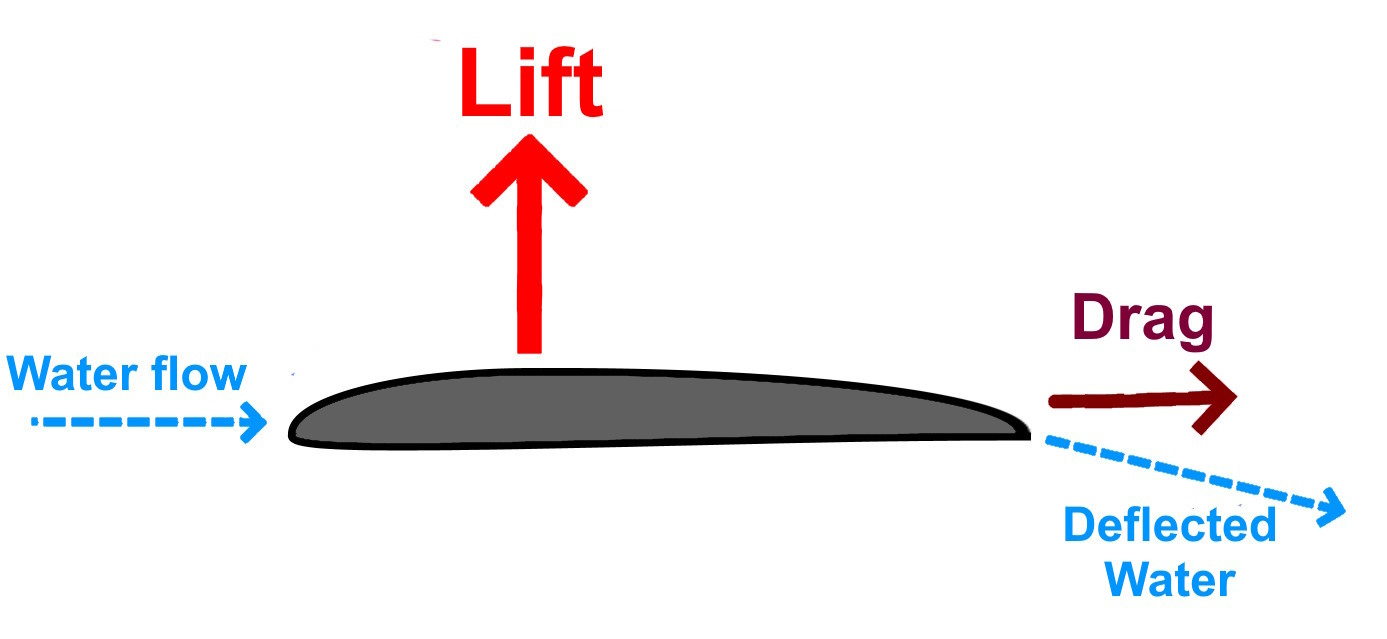
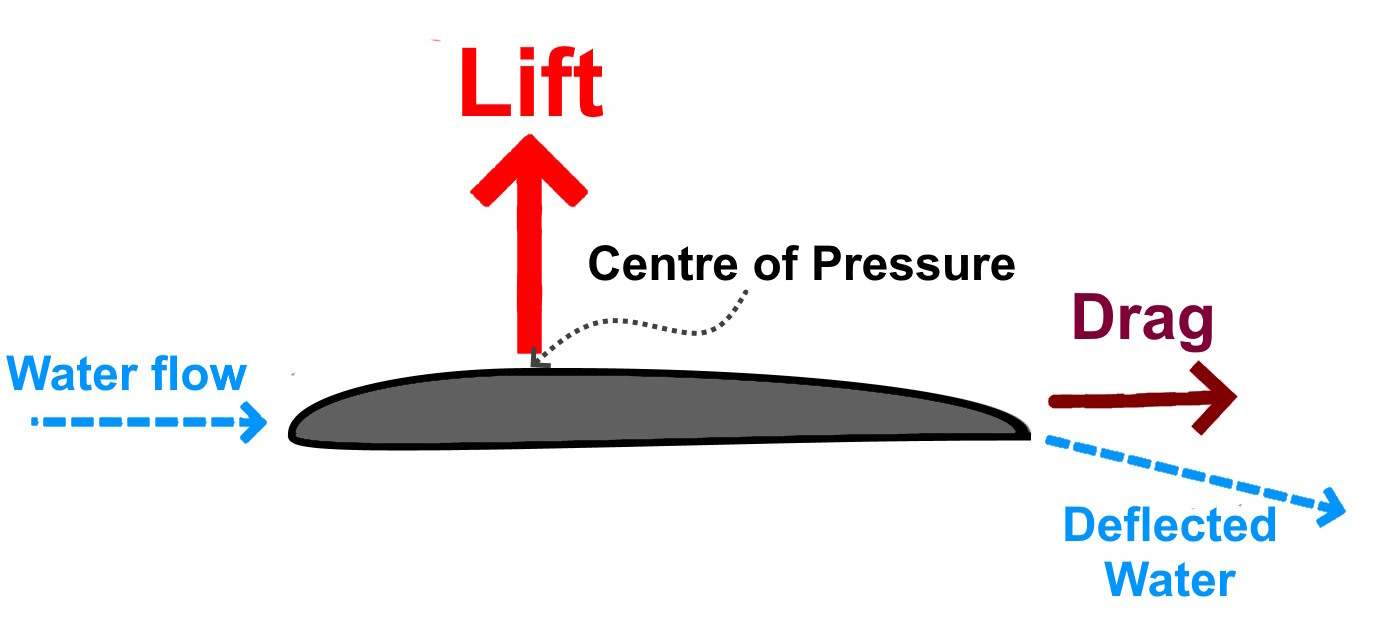
p

diff --git a/frontwingsandstabs.html b/frontwingsandstabs.html
@@ -91,7 +91,7 @@
 
           <div class = "diagrams">
             <img src = "foil4.jpg" width="185px" height="185px" />
-            <p>The front foil centre of pressure (where the lift comes from) is normally near the riders centre of mass, meaning small pitch effects. In some instances (e.g. low speed) this isn't the case</p>
+            <p>The front foil centre of pressure (where the lift comes from) is normally underneath the riders centre, meaning negligible rotation. In some instances (e.g. low speed) this isn't the case</p>
           </div>
 
         </div>

diff --git a/whatisahyrdofoil.html b/whatisahyrdofoil.html
@@ -58,6 +58,7 @@
                 <li><b>Lift Coefficient</b> - (related to the <i>Angle of Attack</i> of the foil)</li>
               </ol>
         
+              <p>The Centre of Pressure is the position on the foil of the Lift</p>
         
         <div class="gap"></div>
         
